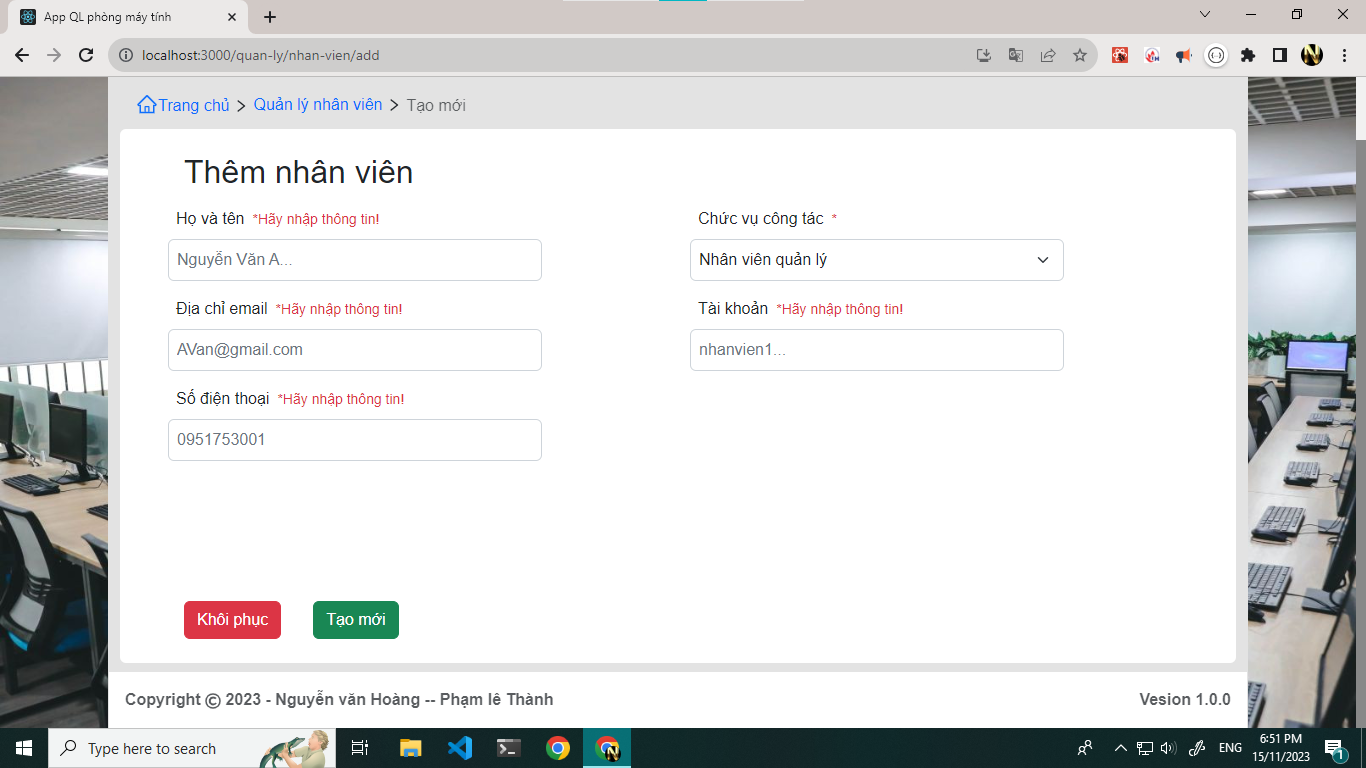
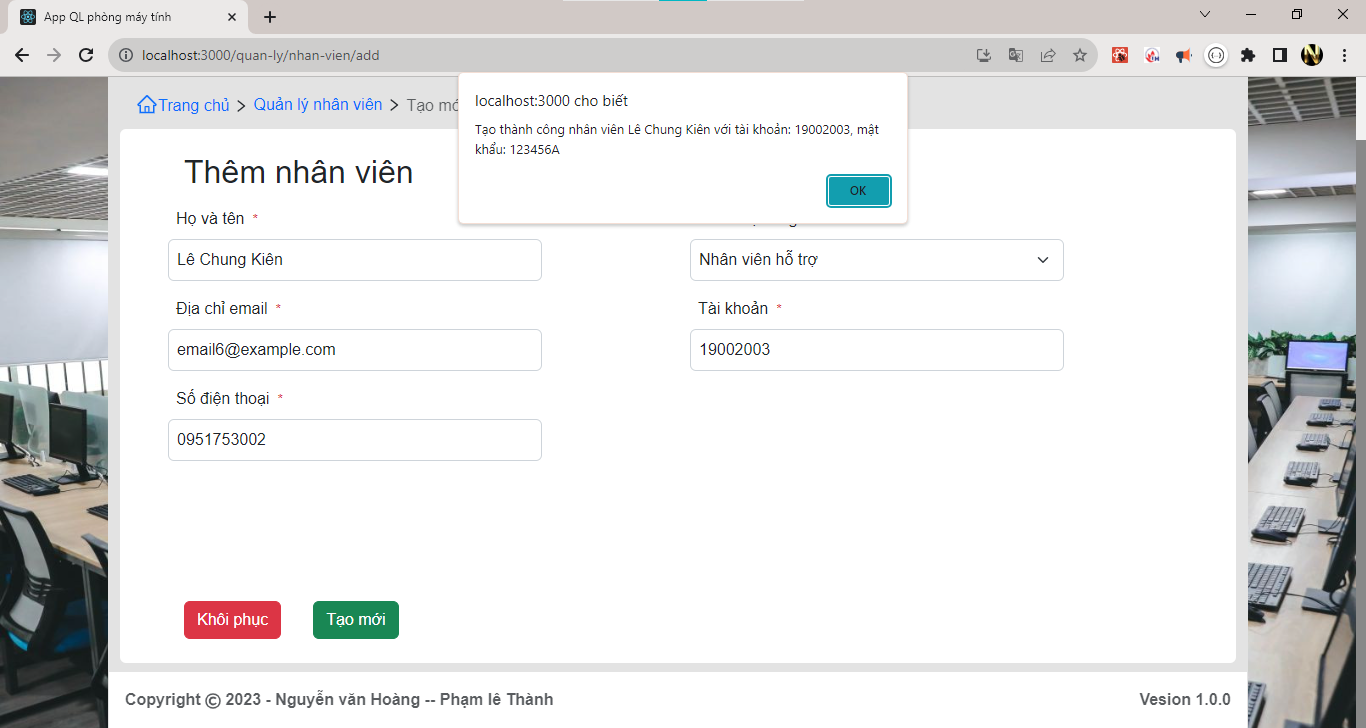
QlNhanVien: finish insert NhanVien theo api

diff --git a/src/components/layout/Add/FormAddNhanVien.jsx b/src/components/layout/Add/FormAddNhanVien.jsx
@@ -2,7 +2,7 @@ import React, { useEffect, useRef, useState } from "react";
 import Footer from "../../common/Footer/Footer";
 import NavTab from "../../common/NavTab/NavTab";
 import { useDispatch, useSelector } from "react-redux";
-import { getAllNhanVienApi } from "../../../redux/reducers/nhanVienReducer";
+import { getAllNhanVienApi, insertNhanVienApi } from "../../../redux/reducers/nhanVienReducer";
 import { getAllTaiKhoanApi } from "../../../redux/reducers/taiKhoanReducer";
 import { getAllChucVuApi } from "../../../redux/reducers/chucVuReducer";
 
@@ -48,11 +48,116 @@ export default function FormAddNhanVien() {
     }
   }, []);
 
+  const checkData = () => {
+    let result = 1;
+    let err_tenNV = "";
+    let err_sDT = "";
+    let err_email = "";
+    let err_chucVu = "";
+    let err_taiKhoan = "";
+
+    let regexEmail = new RegExp(
+      /^[a-zA-Z0-9._:$!%-]+@[a-zA-Z0-9.-]+.[a-zA-Z]$/
+    );
+    let regexPhone = new RegExp(/^\d{9,12}$/);
+
+    let { tenNV, sDT, email, txtTaiKhoan, chucVu } = objNhanVien.current;
+
+    if(txtTaiKhoan.trim().length === 0){
+      err_taiKhoan = "Hãy nhập thông tin!"
+      result = false;
+    }
+    //
+    if (chucVu == null || Object.keys(chucVu).length === 0) {
+      err_chucVu = "Hãy chọn một khoa!";
+      result = false;
+    }
+    //
+    if (email.trim().length === 0) {
+      result = false;
+      err_email = "Hãy nhập thông tin!";
+    } else if (!regexEmail.test(email)) {
+      err_email = "Hãy nhập đúng định danh của email!";
+      result = false;
+    }
+    //
+    if (sDT.trim().length === 0) {
+      err_sDT = "Hãy nhập thông tin!";
+      result = false;
+    } else if (
+      sDT.trim().length < 9 ||
+      sDT.trim().length > 15
+    ) {
+      err_sDT = "Số điện thoại có trên 9 số và nhỏ hơn 15 số!";
+      result = false;
+    } else if (!regexPhone.test(sDT)) {
+      err_sDT = "Hãy nhập các ký tự số!";
+      result = false;
+    }
+    //
+    if (tenNV.trim().length === 0) {
+      err_tenNV = "Hãy nhập thông tin!";
+      result = false;
+    }
+
+
+    setErrNhanVien({
+      tenNV: err_tenNV,
+      sDT: err_sDT,
+      email: err_email,
+      chucVu: err_chucVu,
+      taiKhoan: err_taiKhoan,
+    })
+
+    return result;
+  };
+
   // handle
   const handleSubmit = (e) => {
     e.preventDefault();
 
-    console.log("submit");
+    if (!checkData()) {
+      return;
+    }
+    //true
+    // check trung Tai khoan
+    let objTaiKhoan = arrTaiKhoan.find(item => item.tenDangNhap == objNhanVien.current.txtTaiKhoan )
+
+    if(objTaiKhoan != null){
+      alert('Trùng tài khoản!')
+      return;
+    }
+    //
+    let maNhanVien = getRandomMaNV(arrNhanVien);
+    //
+    let {txtTaiKhoan, chucVu} = objNhanVien.current 
+
+    let quyen = {} ;
+
+    if(chucVu.tenCV.includes('Nhân viên quản lý')) {
+      quyen = {
+        maQuyen: 1,
+        tenQuyen: "Người quản lý"
+        }
+    }
+    else {
+      quyen = {
+        maQuyen: 3,
+        tenQuyen: "Nhân viên"
+        }
+    }
+
+    let taiKhoan =  {
+      maTK: maNhanVien,
+      tenDangNhap: txtTaiKhoan,
+      matKhau:'123456A',
+      quyen
+    }
+
+    objNhanVien.current = {...objNhanVien.current, maNhanVien,taiKhoan}
+
+    dispatch(insertNhanVienApi(objNhanVien.current))
+    
   };
   //
   const handleChangeText = (e) => {
@@ -86,7 +191,7 @@ export default function FormAddNhanVien() {
       return item.maCV == idChucvu;
     });
 
-    objNhanVien.current.chucVu = {...objData};
+    objNhanVien.current.chucVu = { ...objData };
     setErrNhanVien({ ...errNhanVien, chucVu: "" });
   };
 

diff --git a/src/redux/reducers/nhanVienReducer.jsx b/src/redux/reducers/nhanVienReducer.jsx
@@ -3,6 +3,8 @@
 import { createSlice } from "@reduxjs/toolkit";
 import { http } from "../../util/config";
 import Database from "../../util/database/Database";
+import { insertTaiKhoanAction } from "./taiKhoanReducer";
+import { history } from "../..";
 
 // function
 const dataSearch = (arrData, valSearch, valSelect) => {
@@ -68,6 +70,49 @@ const nhanVienReducer = createSlice({
         action.payload
       );
     },
+    insertNhanVienAction: (state, action) => {
+      let item = action.payload;
+      state.arrNhanVien.push(item);
+
+      let { arrNhanVien, valueSearch, valueSelect } = state;
+      state.arrNhanVienSearch = dataSearch(
+        arrNhanVien,
+        valueSearch,
+        valueSelect
+      );
+    },
+    updateNhanVienAction: (state, action) => {
+      let itemUpdate = action.payload;
+
+      let rowToChange = state.arrNhanVien.findIndex((item) => {
+        return item.maNV == itemUpdate.maNV;
+      });
+
+      state.arrNhanVien[rowToChange] = itemUpdate;
+      //
+      let { arrNhanVien, valueSearch, valueSelect } = state;
+      state.arrNhanVienSearch = dataSearch(
+        arrNhanVien,
+        valueSearch,
+        valueSelect
+      );
+    },
+    updateNhanVienAction: (state, action) => {
+      let maXoa = action.payload;
+
+      let arrUpdate = state.arrNhanVien.filter(item => {
+        return item.maNV !== maXoa
+      })
+
+      state.arrNhanVien = [...arrUpdate]
+      //
+      let { arrNhanVien, valueSearch, valueSelect } = state;
+      state.arrNhanVienSearch = dataSearch(
+        arrNhanVien,
+        valueSearch,
+        valueSelect
+      );
+    },
   },
 });
 // exp nay de sử dụng theo cách 2
@@ -75,11 +120,41 @@ export const {
   setArrNhanVienAction,
   setValueSelectNhanVienAction,
   setValueSearchNhanVien,
+  insertNhanVienAction,
 } = nhanVienReducer.actions;
 export default nhanVienReducer.reducer;
 
 // -------------- Call API ---------------
 
+export const insertNhanVienApi = (nhanVien) => {
+  return async (dispatch) => {
+    try {
+      let resultAddTaiKhoan = await http.post(
+        "/them_tai_khoan",
+        nhanVien.taiKhoan
+      );
+
+      let result = await http.post("/LuuNhanVien", nhanVien);
+
+      dispatch(insertTaiKhoanAction(resultAddTaiKhoan.data));
+
+      dispatch(insertNhanVienAction(result.data));
+
+      alert(
+        `Tạo thành công nhân viên ${nhanVien.tenNV} với tài khoản: ${nhanVien.taiKhoan.tenDangNhap}, mật khẩu: ${nhanVien.taiKhoan.matKhau}`
+      );
+
+      history.push("/quan-ly/nhan-vien");
+    } catch (error) {
+      console.log("🚀 ~ file: nhanVienReducer.jsx:88 ~ return ~ error:", error);
+    }
+  };
+};
+
+/**
+ * get all 1 NhanVien
+ * @param {*} dispatch
+ */
 export const getAllNhanVienApi = async (dispatch) => {
   try {
     const result = await http.get("/DSNhanVien");

diff --git a/src/components/layout/Modal/ModalTaiKhoan/ModalDetailTaiKhoan.jsx b/src/components/layout/Modal/ModalTaiKhoan/ModalDetailTaiKhoan.jsx
@@ -288,7 +288,7 @@ export default function ModalDetailTaiKhoan() {
               className="btn btn-secondary"
               data-bs-dismiss="modal"
             >
-              Close
+              Đóng
             </button>
           </div>
         </div>
